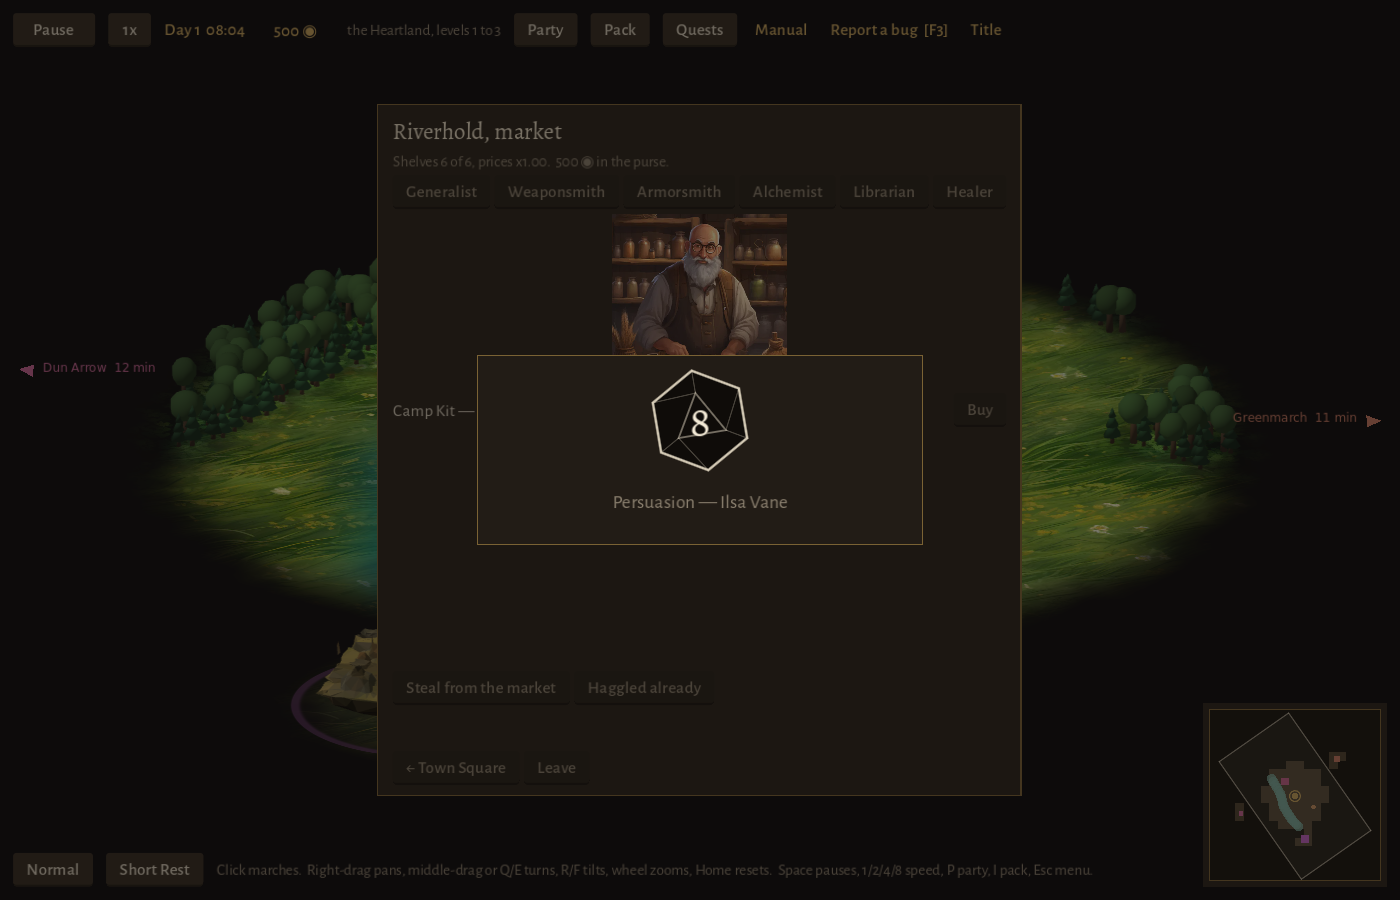
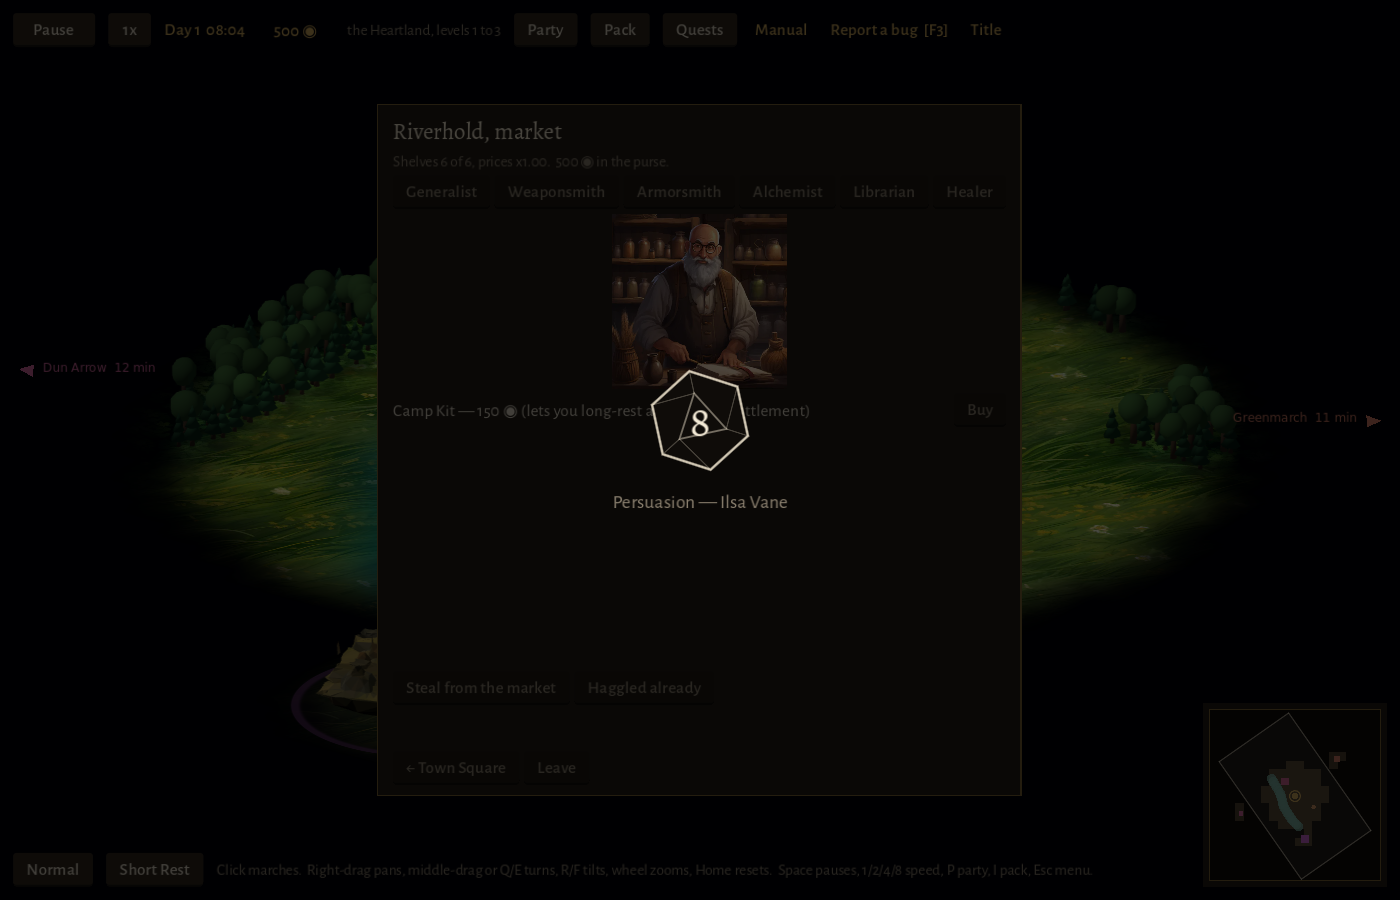
The dice popup has no frame: the screen darkens, the die stays bright
The owner: "make the pop up with no background color, only darken
everything except the dice and result". The town's and the map's rolls
now share one popup (world.gd _dice_popup): a black wash over the whole
screen with the die and its tally in the middle, no panel. The town's
takes every click (a click anywhere lands it); the map's lets clicks
through to the map and lands on a click on the die.

Claude-Session: https://claude.ai/code/session_019eqg1iZ35fYFRmC11R2cGm

diff --git a/docs/expansion-plan.md b/docs/expansion-plan.md
@@ -8812,10 +8812,13 @@ anything, and a reload still cannot reroll a result.
 
 **In town** (`_say_rolled` in `scenes/world/world.gd`), steal, persuade,
 haggle, investigate, working at the healer's, carouse and gamble roll the die
-in a popup over the dimmed shop page. It first rolled inline, in the log
-line's place, and the page jumped under it. The owner preferred "a dice popup
-in shop screen rather than moving the elements in the shop page", so the page
-now stays exactly where it was.
+in a popup over the shop page. It first rolled inline, in the log line's
+place, and the page jumped under it. The owner preferred "a dice popup in shop
+screen rather than moving the elements in the shop page", so the page now
+stays exactly where it was. The popup has no frame or background of its own
+("no background color, only darken everything except the dice and result"):
+the whole screen darkens, and only the die and its tally stay bright in the
+middle (`_dice_popup`).
 - While it is in the air the action buttons wait. A click anywhere, Enter,
   Space or Esc lands it and never skips the result.
 - After it lands comes the line, the success sting, and anything that would
@@ -8834,17 +8837,19 @@ didn't count. `SettlementVisit.check_preview`'s odds now follow the plain
 said the preview assumed a natural 1 always missed and a 20 always hit.
 
 **On the map** (`_map_roll`), foraging on the march, a lair's search, a
-landmark's search and sneaking past a lair roll in a small gilt panel just
-above the HUD bar. The HUD line (and its sting and follow-up) waits for the
-die to land. A click on the panel lands it. It does not pause the clock: a
-forage rolls while the party marches. Only one is in the air at a time; a second check lands the first. A
+landmark's search and sneaking past a lair roll in the same popup: the screen
+darkened, the die and its tally in the middle. The HUD line (and its sting and
+follow-up) waits for the die to land. A click on the die lands it. The popup
+does not pause the clock or take the mouse: a forage rolls while the party
+marches, and a click on the map still gives a march order. Only one is in the air at a time; a second check lands the first. A
 failed sneak's follow-up, the lair's own prompt, waits for the landing too, so
 the die says "missed" before the lair notices you. `WorldLairs.sneak_past`'s
 result now names its skill.
 
 `DiceRoll` used to set its size and mouse filter in `_ready()`, which runs
 after the caller's own settings and quietly undid them. Both popups collapsed
-to a thin strip, and a click on the map's die never landed it. The defaults
+to a thin strip while they still had frames, and a click on the map's die
+never landed it. The defaults
 are now set in `_init()`.
 
 Under SORCMERC_FAST (every test and robot), and at the Instant pace, every one
